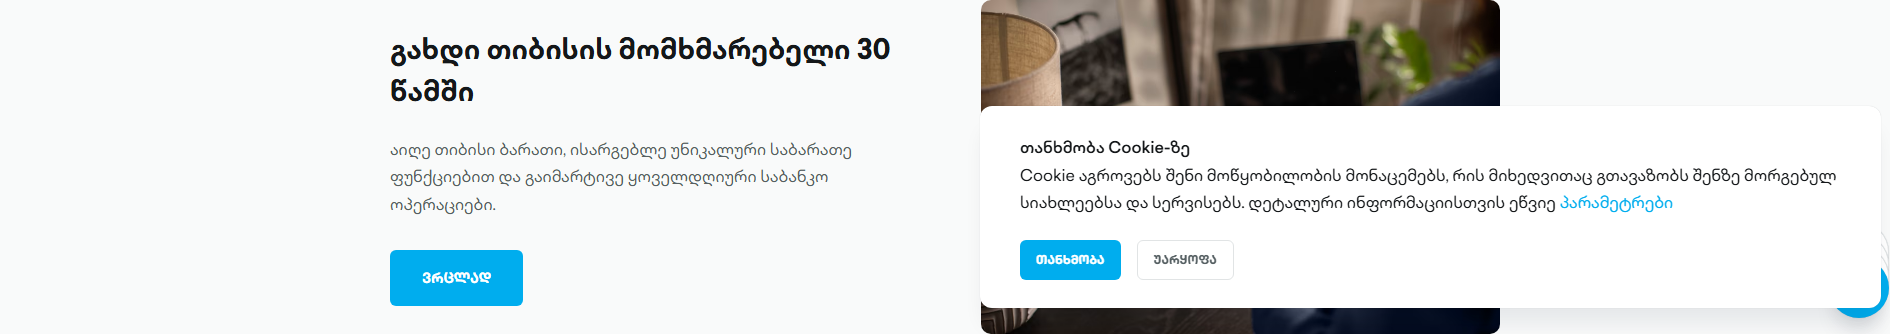
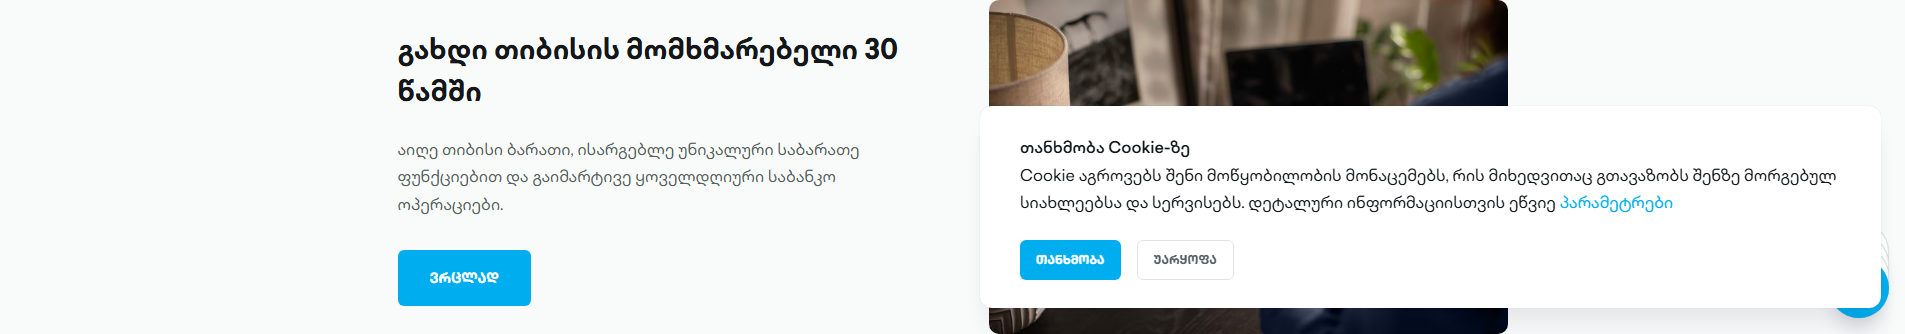
more fixes

diff --git a/src/main/java/steps/MainPageSteps.java b/src/main/java/steps/MainPageSteps.java
@@ -63,7 +63,8 @@ public class MainPageSteps {
         String actualPath = "images/mainPageImagesActual/cta-section-screenshot_ignore.png";
         String expectedPath = "images/mainPageImagesExpected/cta-section-screenshot_ignore.png";
         page.screenshot(new Page.ScreenshotOptions().setPath(Paths.get(actualPath)));
-        ComparisonResult comparisonResult = PlaywrightScreenshotCompare.compareIgnoringTransparency(actualPath, expectedPath);
+        ComparisonOptions comparisonOptions = ComparisonOptions.builder().useTransparencyAsMask(true).ignoreDimensions(true).build();
+        ComparisonResult comparisonResult = PlaywrightScreenshotCompare.compare(actualPath, expectedPath, comparisonOptions);
         System.out.println(comparisonResult);
         Assert.assertTrue(comparisonResult.isMatches());
     }
